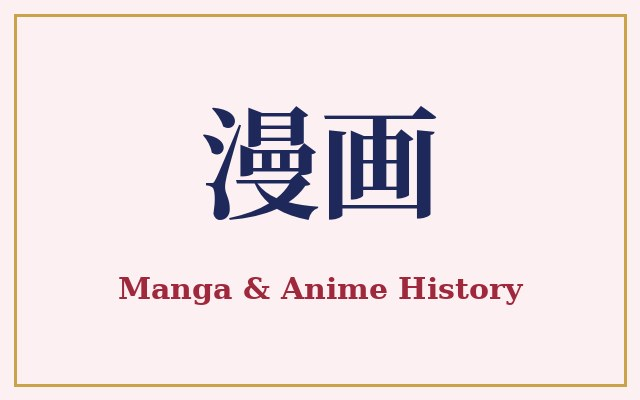
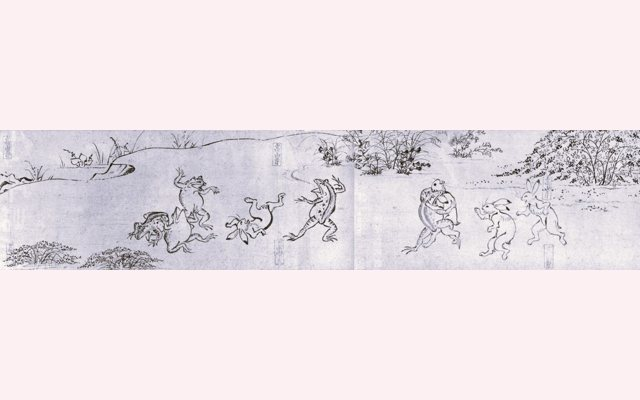
manga-anime-history: add 12 PD/CC photos with descriptions, new hub thumbnail
Claude-Session: https://claude.ai/code/session_01YLWmcJ4C49shEAFm3hzpVu

diff --git a/culture/manga-anime-history/index.html b/culture/manga-anime-history/index.html
@@ -1141,15 +1141,62 @@ article ul li, article ol li { font-size: 19px; }
 
     <section id="opening">
       <p class="opening">Some of the oldest comic art in Japan is kept in a mountain temple in Kyoto, and it stars a rabbit and a frog.</p>
-      <p>As a licensed guide, I like to start manga and anime history at a temple, because it shows how long the habit of telling stories in pictures has lasted here. This page follows that thread from medieval scrolls to Pokemon in a few steps. It uses text and links rather than pictures of modern characters, which are protected by copyright, and it points you to official sites and museums instead.</p>
+      <p>As a licensed guide, I like to start manga and anime history at a temple, because it shows how long the habit of telling stories in pictures has lasted here. This page follows that thread from medieval scrolls to Pokemon in a few steps. The pictures here are old scrolls and prints in the public domain and photos of places; modern characters are protected by copyright, so for them I point you to official sites and museums.</p>
     </section>
 
     <h2 id="scrolls">The Scrolls at Kozan-ji<span class="h2-jp">鳥獣戯画</span></h2>
     <p>The <em>Choju-jinbutsu-giga</em>, usually called Choju-giga, is a set of four ink scrolls in which rabbits, frogs, monkeys and other animals wrestle, swim, race and parody monks. <a href="https://en.wikipedia.org/wiki/Ch%C5%8Dj%C5%AB-jinbutsu-giga" target="_blank" rel="noopener" onclick="trackEvent('click','external','manga_src_wiki_choju')">Wikipedia (Choju-jinbutsu-giga)</a> dates the scrolls to the 12th and 13th centuries and notes that the usual attribution to the priest Toba Sojo is uncertain. They belong to Kozan-ji, a temple at Toganoo in the hills north-west of Kyoto (<a href="https://www.kosanji.com/" target="_blank" rel="noopener" onclick="trackEvent('click','external','manga_src_kozanji')">Kozan-ji</a>), and are designated National Treasures.</p>
+    <figure style="margin:36px auto;max-width:760px;">
+      <picture><source srcset="/culture/manga-anime-history/images/kozanji.webp" type="image/webp"><img src="/culture/manga-anime-history/images/kozanji.jpg" alt="The Kaizando hall at Kozan-ji with a gray roof among autumn maples" loading="lazy" style="width:100%;height:auto;border-radius:4px;display:block;"></picture>
+      <figcaption style="font-size:13px;color:var(--enshu);margin-top:10px;text-align:center;line-height:1.6;">The Kaizando at Kozan-ji, Kyoto<br>Photo: KimonBerlin, <a href="https://creativecommons.org/licenses/by-sa/2.0/" target="_blank" rel="noopener" style="color:var(--enshu);">CC BY-SA 2.0</a>, via Wikimedia Commons (resized)</figcaption>
+    </figure>
+    <p>This is a hall at Kozan-ji in autumn. The sign in front reads <em>Kaizando</em> and <em>Myoe Shonin</em> (as I read it), which points to the priest the temple regards as its founder. Notice how plain the building is: a low gray roof, white plaster, and maples behind it. The scrolls were not made for tourists; they have been kept in a quiet mountain temple like this one.</p>
+    <figure style="margin:36px auto;max-width:760px;">
+      <picture><source srcset="/culture/manga-anime-history/images/choju-sumo.webp" type="image/webp"><img src="/culture/manga-anime-history/images/choju-sumo.jpg" alt="Frogs and rabbits wrestling in a Choju-giga scroll" loading="lazy" style="width:100%;height:auto;border-radius:4px;display:block;"></picture>
+      <figcaption style="font-size:13px;color:var(--enshu);margin-top:10px;text-align:center;line-height:1.6;">A wrestling scene from the Choju-giga scrolls<br>Public domain (old work), via Wikimedia Commons (resized)</figcaption>
+    </figure>
+    <p>This is the scene most people picture first: frogs and rabbits in a wrestling match. On the left a frog has thrown a rabbit onto its back, and on the right two rabbits seem to cheer or flinch while another is held in a frog's embrace. The vertical red-and-black stamps on the paper are marks of Kozan-ji. This image is a scan from a printed reproduction, so it is gray-toned and not a photo of the original ink.</p>
+    <figure style="margin:36px auto;max-width:563px;">
+      <picture><source srcset="/culture/manga-anime-history/images/choju-sumo-close.webp" type="image/webp"><img src="/culture/manga-anime-history/images/choju-sumo-close.jpg" alt="Close view of a frog throwing a rabbit in Choju-giga" loading="lazy" style="width:100%;height:auto;border-radius:4px;display:block;"></picture>
+      <figcaption style="font-size:13px;color:var(--enshu);margin-top:10px;text-align:center;line-height:1.6;">Close-up of the same wrestling scene<br>Public domain (old work), via Wikimedia Commons (resized)</figcaption>
+    </figure>
+    <p>A closer view of the left half. The frog on the right raises a hand with a look of triumph, while the rabbit is flipped over with its legs in the air. The fun is in the expressions and the movement: animals behaving like people, drawn with a few quick brush lines.</p>
     <p>Dates for the designation differ between sources (1905 in one, 1952 in another), so I will leave the year out. What matters for this story is the style: lively lines, humor, and a sequence that you read as you unroll it. Many people call it the ancestor of manga, which is a fair way to see it, though it is a claim of influence and not a family tree.</p>
+
+    <figure style="margin:36px auto;max-width:760px;">
+      <picture><source srcset="/culture/manga-anime-history/images/choju-archery.webp" type="image/webp"><img src="/culture/manga-anime-history/images/choju-archery.jpg" alt="Rabbits and frogs with bows and a fox holding a torch in a Choju-giga scroll" loading="lazy" style="width:100%;height:auto;border-radius:4px;display:block;"></picture>
+      <figcaption style="font-size:13px;color:var(--enshu);margin-top:10px;text-align:center;line-height:1.6;">Archery and a torch-bearing fox in a Choju-giga scroll<br>Public domain (old work), via Wikimedia Commons (resized)</figcaption>
+    </figure>
+    <p>In this long strip, rabbits and frogs hold bows and a round leaf stands as a target on a stick. At right, a fox carries what looks like a blazing torch next to a rabbit. I read it as a game or contest, but I cannot name the exact episode, so I only describe what the drawing shows.</p>
+    <figure style="margin:36px auto;max-width:760px;">
+      <picture><source srcset="/culture/manga-anime-history/images/choju-water.webp" type="image/webp"><img src="/culture/manga-anime-history/images/choju-water.jpg" alt="Rabbits and monkeys playing in a stream in a Choju-giga scroll" loading="lazy" style="width:100%;height:auto;border-radius:4px;display:block;"></picture>
+      <figcaption style="font-size:13px;color:var(--enshu);margin-top:10px;text-align:center;line-height:1.6;">Rabbits and monkeys by a stream in a Choju-giga scroll<br>Public domain (old work), via Wikimedia Commons (resized)</figcaption>
+    </figure>
+    <p>Here the animals are in and around a stream drawn with fine wavy lines. Rabbits and monkeys swim, sit on rocks and seem to play, and the landscape of bare trees and rocks fills the left side. It shows that the artist could handle water and scenery as well as comic action.</p>
+    <figure style="margin:36px auto;max-width:760px;">
+      <picture><source srcset="/culture/manga-anime-history/images/choju-procession.webp" type="image/webp"><img src="/culture/manga-anime-history/images/choju-procession.jpg" alt="Rabbits and frogs carrying boxes and a litter in a Choju-giga scroll" loading="lazy" style="width:100%;height:auto;border-radius:4px;display:block;"></picture>
+      <figcaption style="font-size:13px;color:var(--enshu);margin-top:10px;text-align:center;line-height:1.6;">A procession of rabbits and frogs in a Choju-giga scroll<br>Public domain (old work), via Wikimedia Commons (resized)</figcaption>
+    </figure>
+    <p>A parade of rabbits and frogs carries a box on a head, a covered chest and a flat litter, while a rabbit at the far end waves a fan. The thin seams in the image are joins between sheets of the scroll or the scan. I describe it as a procession, but the scene's meaning is not something I can confirm from the picture.</p>
 
     <h2 id="edo">Hokusai and the Word Manga<span class="h2-jp">北斎漫画</span></h2>
     <p>Picture scrolls (<em>emaki</em>) became woodblock-printed books in the Edo period. Katsushika Hokusai's sketchbooks, called <em>Hokusai Manga</em>, began appearing in 1814 and filled many volumes with people, animals, spirits and everyday scenes (<a href="https://en.wikipedia.org/wiki/Hokusai_Manga" target="_blank" rel="noopener" onclick="trackEvent('click','external','manga_src_wiki_hokusai')">Wikipedia (Hokusai Manga)</a>). They were drawing manuals, not comics in the modern sense, but they helped make the word <span class="jp">漫画</span> familiar. For more on the prints of this era, see the <a class="inline-link" href="/culture/ukiyo-e/">ukiyo-e guide</a>.</p>
+
+    <figure style="margin:36px auto;max-width:620px;">
+      <picture><source srcset="/culture/manga-anime-history/images/hokusai-v8.webp" type="image/webp"><img src="/culture/manga-anime-history/images/hokusai-v8.jpg" alt="Cover and a page of Hokusai Manga volume 8 with butterflies and small figure scenes" loading="lazy" style="width:100%;height:auto;border-radius:4px;display:block;"></picture>
+      <figcaption style="font-size:13px;color:var(--enshu);margin-top:10px;text-align:center;line-height:1.6;">Hokusai Manga, volume 8: the cover and a page of small scenes<br>Public domain (old work), via Wikimedia Commons (resized)</figcaption>
+    </figure>
+    <p>On the right is the cover of a volume of <em>Hokusai Manga</em>, with the title in large characters over diagonal stripes and a few leaves and butterflies. On the left, a page is divided into small boxes, each with a figure or a pair of figures. This is the sketchbook format: one subject after another, to be copied or enjoyed.</p>
+    <figure style="margin:36px auto;max-width:760px;">
+      <picture><source srcset="/culture/manga-anime-history/images/hokusai-faces.webp" type="image/webp"><img src="/culture/manga-anime-history/images/hokusai-faces.jpg" alt="Two pages of Hokusai Manga with rows of faces in a grid" loading="lazy" style="width:100%;height:auto;border-radius:4px;display:block;"></picture>
+      <figcaption style="font-size:13px;color:var(--enshu);margin-top:10px;text-align:center;line-height:1.6;">Two pages of faces from Hokusai Manga<br>Public domain (old work), via Wikimedia Commons (resized)</figcaption>
+    </figure>
+    <p>Two pages made of faces in a grid. Each box shows a different person, young, old, smiling, frowning, with different hair and clothes. The page is a scan from a printed edition, and a printed page label can be seen at the bottom edge. For me it is the clearest sign that these books were about observing expression, which later manga artists made central.</p>
+    <figure style="margin:36px auto;max-width:700px;">
+      <picture><source srcset="/culture/manga-anime-history/images/hokusai-swim.webp" type="image/webp"><img src="/culture/manga-anime-history/images/hokusai-swim.jpg" alt="Two pages of Hokusai Manga with people swimming underwater and a horse" loading="lazy" style="width:100%;height:auto;border-radius:4px;display:block;"></picture>
+      <figcaption style="font-size:13px;color:var(--enshu);margin-top:10px;text-align:center;line-height:1.6;">Swimmers and a horse in Hokusai Manga<br>Public domain (old work), via Wikimedia Commons (resized)</figcaption>
+    </figure>
+    <p>People swim under a pattern of waves, some with floats, with fish and a horse among them. A title on the right page appears to read <em>Ukihara</em> (as I read it), but I will not claim more. What stands out is the range of poses: bodies seen from above, upside down and twisting, which shows why artists still study these pages.</p>
 
     <h2 id="meiji">Satire, Magazines and Paper Theater<span class="h2-jp">風刺漫画と紙芝居</span></h2>
     <p>After 1868, Western-style newspapers and humor magazines arrived. Kitazawa Rakuten drew satirical cartoons and is linked with the magazine <em>Tokyo Puck</em>, launched in 1905 (<a href="https://en.wikipedia.org/wiki/Kitazawa_Rakuten" target="_blank" rel="noopener" onclick="trackEvent('click','external','manga_src_wiki_rakuten')">Wikipedia (Kitazawa Rakuten)</a>). In the 1930s, street storytellers used <em>kamishibai</em>, picture cards slid in a small wooden stage, to sell sweets and tell serial stories to children (<a href="https://en.wikipedia.org/wiki/Kamishibai" target="_blank" rel="noopener" onclick="trackEvent('click','external','manga_src_wiki_kamishibai')">Wikipedia (Kamishibai)</a>). After the war, cheap rental comics (<em>kashihon</em>) carried on the habit of reading serial stories on paper.</p>
@@ -1173,6 +1220,21 @@ article ul li, article ol li { font-size: 19px; }
       <li><strong>Mizuki Shigeru Road, Sakaiminato, Tottori.</strong> A street of about 800 meters lined with bronze yokai statues from GeGeGe no Kitaro; the count varies from about 150 to 178 by source (<a href="https://www.gltjp.com/en/directory/item/12141/" target="_blank" rel="noopener" onclick="trackEvent('click','external','manga_src_gltjp_mizuki')">GLTJP</a>, <a href="https://www.mlit.go.jp/tagengo-db/en/R2-01660.html" target="_blank" rel="noopener" onclick="trackEvent('click','external','manga_src_mlit_mizuki')">the MLIT multilingual database</a>).</li>
     </ul>
     <p>For a guided option in Kyoto, you can browse <a class="inline-link" href="https://www.viator.com/search/Kyoto+manga+anime+tour?pid=P00298374&amp;mcid=42383&amp;medium=link&amp;campaign=sacred-japan" target="_blank" rel="noopener sponsored">manga and anime tours on Viator</a>. I have not tried them, so check each page.</p>
+    <figure style="margin:36px auto;max-width:760px;">
+      <picture><source srcset="/culture/manga-anime-history/images/museum-building.webp" type="image/webp"><img src="/culture/manga-anime-history/images/museum-building.jpg" alt="The Kyoto International Manga Museum seen across a lawn" loading="lazy" style="width:100%;height:auto;border-radius:4px;display:block;"></picture>
+      <figcaption style="font-size:13px;color:var(--enshu);margin-top:10px;text-align:center;line-height:1.6;">The Kyoto International Manga Museum from the lawn<br>Photo: 珈琲ルンバ, <a href="https://creativecommons.org/licenses/by-sa/3.0/" target="_blank" rel="noopener" style="color:var(--enshu);">CC BY-SA 3.0</a>, via Wikimedia Commons (resized)</figcaption>
+    </figure>
+    <p>The museum occupies a former elementary school in central Kyoto. A banner on the right says it is open, so the picture was probably taken around its opening period, and the building or grounds may look different now. The wide lawn is a good place to sit and read, which is part of the idea.</p>
+    <figure style="margin:36px auto;max-width:760px;">
+      <picture><source srcset="/culture/manga-anime-history/images/museum-shelf.webp" type="image/webp"><img src="/culture/manga-anime-history/images/museum-shelf.jpg" alt="Visitors reading manga in front of a wall of shelves at the Kyoto International Manga Museum" loading="lazy" style="width:100%;height:auto;border-radius:4px;display:block;"></picture>
+      <figcaption style="font-size:13px;color:var(--enshu);margin-top:10px;text-align:center;line-height:1.6;">Visitors at the manga wall of the Kyoto International Manga Museum<br>Photo: Peat Bakke, <a href="https://creativecommons.org/licenses/by/2.0/" target="_blank" rel="noopener" style="color:var(--enshu);">CC BY 2.0</a>, via Wikimedia Commons (resized)</figcaption>
+    </figure>
+    <p>A long wall of shelves with the museum's name above it, and visitors standing and reading. This photo is from 2007, so I would not use it to describe the current layout, but it shows what makes the place different from a normal gallery: you are allowed to pick up manga and read.</p>
+    <figure style="margin:36px auto;max-width:760px;">
+      <picture><source srcset="/culture/manga-anime-history/images/yokai-space.webp" type="image/webp"><img src="/culture/manga-anime-history/images/yokai-space.jpg" alt="Yokai Square in Sakaiminato with eyeball lamp posts and a thatched umbrella-shaped roof" loading="lazy" style="width:100%;height:auto;border-radius:4px;display:block;"></picture>
+      <figcaption style="font-size:13px;color:var(--enshu);margin-top:10px;text-align:center;line-height:1.6;">Yokai Square on Mizuki Shigeru Road, Sakaiminato<br>Photo: Motokoka, <a href="https://creativecommons.org/licenses/by-sa/4.0/" target="_blank" rel="noopener" style="color:var(--enshu);">CC BY-SA 4.0</a>, via Wikimedia Commons (resized)</figcaption>
+    </figure>
+    <p>A small plaza with lamp posts topped by round white globes, one of them with an orange eye, and a green thatched roof shaped like a giant umbrella. The signboard to the right is not readable here, and I cannot say which yokai the roof refers to, but the whole street is built around this kind of playful folklore imagery.</p>
 
     <h2 id="faq">Frequently Asked Questions<span class="h2-jp">よくある質問</span></h2>
     <div class="faq-stack">      <details class="faq-item">

diff --git a/_tools/culture/manga_anime.py b/_tools/culture/manga_anime.py
@@ -41,6 +41,24 @@ faqs = [
 ]
 faq_html, faq_ld = faq_blocks(faqs)
 
+fig = make_fig(S)
+PD = 'Public domain (old work), via Wikimedia Commons (resized)'
+_PH = {
+    'kozanji': '/mnt/user-data/uploads/a4f6fec4-image.jpg',
+    'choju-sumo': '/mnt/user-data/uploads/a7255900-image.jpg',
+    'choju-sumo-close': '/mnt/user-data/uploads/384823c4-image.jpg',
+    'choju-archery': '/mnt/user-data/uploads/85503c37-image.jpg',
+    'choju-water': '/mnt/user-data/uploads/25b63b94-image.jpg',
+    'choju-procession': '/mnt/user-data/uploads/f606d248-image.jpg',
+    'hokusai-v8': '/mnt/user-data/uploads/dfd70b27-image.jpg',
+    'hokusai-faces': '/mnt/user-data/uploads/81558a6d-image.jpg',
+    'hokusai-swim': '/mnt/user-data/uploads/1f749ce3-image.jpg',
+    'museum-building': '/mnt/user-data/uploads/5f5bd7eb-image.jpg',
+    'museum-shelf': '/mnt/user-data/uploads/bde0bdcb-image.jpg',
+    'yokai-space': '/mnt/user-data/uploads/08903e41-image.jpg',
+}
+copy_photos(S, {k: v for k, v in _PH.items() if os.path.exists(v) and not os.path.exists(f'{R}/culture/{S}/images/{k}.jpg')})
+
 main = f'''<main>
 
   <aside class="toc" aria-label="Table of contents">
@@ -64,15 +82,35 @@ main = f'''<main>
 
     <section id="opening">
       <p class="opening">Some of the oldest comic art in Japan is kept in a mountain temple in Kyoto, and it stars a rabbit and a frog.</p>
-      <p>As a licensed guide, I like to start manga and anime history at a temple, because it shows how long the habit of telling stories in pictures has lasted here. This page follows that thread from medieval scrolls to Pokemon in a few steps. It uses text and links rather than pictures of modern characters, which are protected by copyright, and it points you to official sites and museums instead.</p>
+      <p>As a licensed guide, I like to start manga and anime history at a temple, because it shows how long the habit of telling stories in pictures has lasted here. This page follows that thread from medieval scrolls to Pokemon in a few steps. The pictures here are old scrolls and prints in the public domain and photos of places; modern characters are protected by copyright, so for them I point you to official sites and museums.</p>
     </section>
 
     <h2 id="scrolls">The Scrolls at Kozan-ji<span class="h2-jp">鳥獣戯画</span></h2>
     <p>The <em>Choju-jinbutsu-giga</em>, usually called Choju-giga, is a set of four ink scrolls in which rabbits, frogs, monkeys and other animals wrestle, swim, race and parody monks. {W_CJ} dates the scrolls to the 12th and 13th centuries and notes that the usual attribution to the priest Toba Sojo is uncertain. They belong to Kozan-ji, a temple at Toganoo in the hills north-west of Kyoto ({KOZ}), and are designated National Treasures.</p>
+    {fig('kozanji', 'The Kaizando hall at Kozan-ji with a gray roof among autumn maples', 'The Kaizando at Kozan-ji, Kyoto', f'Photo: KimonBerlin, {BYSA2}, {VIA}', maxw=760)}
+    <p>This is a hall at Kozan-ji in autumn. The sign in front reads <em>Kaizando</em> and <em>Myoe Shonin</em> (as I read it), which points to the priest the temple regards as its founder. Notice how plain the building is: a low gray roof, white plaster, and maples behind it. The scrolls were not made for tourists; they have been kept in a quiet mountain temple like this one.</p>
+    {fig('choju-sumo', 'Frogs and rabbits wrestling in a Choju-giga scroll', 'A wrestling scene from the Choju-giga scrolls', PD, maxw=760)}
+    <p>This is the scene most people picture first: frogs and rabbits in a wrestling match. On the left a frog has thrown a rabbit onto its back, and on the right two rabbits seem to cheer or flinch while another is held in a frog's embrace. The vertical red-and-black stamps on the paper are marks of Kozan-ji. This image is a scan from a printed reproduction, so it is gray-toned and not a photo of the original ink.</p>
+    {fig('choju-sumo-close', 'Close view of a frog throwing a rabbit in Choju-giga', 'Close-up of the same wrestling scene', PD, maxw=563)}
+    <p>A closer view of the left half. The frog on the right raises a hand with a look of triumph, while the rabbit is flipped over with its legs in the air. The fun is in the expressions and the movement: animals behaving like people, drawn with a few quick brush lines.</p>
     <p>Dates for the designation differ between sources (1905 in one, 1952 in another), so I will leave the year out. What matters for this story is the style: lively lines, humor, and a sequence that you read as you unroll it. Many people call it the ancestor of manga, which is a fair way to see it, though it is a claim of influence and not a family tree.</p>
+
+    {fig('choju-archery', 'Rabbits and frogs with bows and a fox holding a torch in a Choju-giga scroll', 'Archery and a torch-bearing fox in a Choju-giga scroll', PD, maxw=760)}
+    <p>In this long strip, rabbits and frogs hold bows and a round leaf stands as a target on a stick. At right, a fox carries what looks like a blazing torch next to a rabbit. I read it as a game or contest, but I cannot name the exact episode, so I only describe what the drawing shows.</p>
+    {fig('choju-water', 'Rabbits and monkeys playing in a stream in a Choju-giga scroll', 'Rabbits and monkeys by a stream in a Choju-giga scroll', PD, maxw=760)}
+    <p>Here the animals are in and around a stream drawn with fine wavy lines. Rabbits and monkeys swim, sit on rocks and seem to play, and the landscape of bare trees and rocks fills the left side. It shows that the artist could handle water and scenery as well as comic action.</p>
+    {fig('choju-procession', 'Rabbits and frogs carrying boxes and a litter in a Choju-giga scroll', 'A procession of rabbits and frogs in a Choju-giga scroll', PD, maxw=760)}
+    <p>A parade of rabbits and frogs carries a box on a head, a covered chest and a flat litter, while a rabbit at the far end waves a fan. The thin seams in the image are joins between sheets of the scroll or the scan. I describe it as a procession, but the scene's meaning is not something I can confirm from the picture.</p>
 
     <h2 id="edo">Hokusai and the Word Manga<span class="h2-jp">北斎漫画</span></h2>
     <p>Picture scrolls (<em>emaki</em>) became woodblock-printed books in the Edo period. Katsushika Hokusai's sketchbooks, called <em>Hokusai Manga</em>, began appearing in 1814 and filled many volumes with people, animals, spirits and everyday scenes ({W_HM}). They were drawing manuals, not comics in the modern sense, but they helped make the word <span class="jp">漫画</span> familiar. For more on the prints of this era, see the <a class="inline-link" href="/culture/ukiyo-e/">ukiyo-e guide</a>.</p>
+
+    {fig('hokusai-v8', 'Cover and a page of Hokusai Manga volume 8 with butterflies and small figure scenes', 'Hokusai Manga, volume 8: the cover and a page of small scenes', PD, maxw=620)}
+    <p>On the right is the cover of a volume of <em>Hokusai Manga</em>, with the title in large characters over diagonal stripes and a few leaves and butterflies. On the left, a page is divided into small boxes, each with a figure or a pair of figures. This is the sketchbook format: one subject after another, to be copied or enjoyed.</p>
+    {fig('hokusai-faces', 'Two pages of Hokusai Manga with rows of faces in a grid', 'Two pages of faces from Hokusai Manga', PD, maxw=760)}
+    <p>Two pages made of faces in a grid. Each box shows a different person, young, old, smiling, frowning, with different hair and clothes. The page is a scan from a printed edition, and a printed page label can be seen at the bottom edge. For me it is the clearest sign that these books were about observing expression, which later manga artists made central.</p>
+    {fig('hokusai-swim', 'Two pages of Hokusai Manga with people swimming underwater and a horse', 'Swimmers and a horse in Hokusai Manga', PD, maxw=700)}
+    <p>People swim under a pattern of waves, some with floats, with fish and a horse among them. A title on the right page appears to read <em>Ukihara</em> (as I read it), but I will not claim more. What stands out is the range of poses: bodies seen from above, upside down and twisting, which shows why artists still study these pages.</p>
 
     <h2 id="meiji">Satire, Magazines and Paper Theater<span class="h2-jp">風刺漫画と紙芝居</span></h2>
     <p>After 1868, Western-style newspapers and humor magazines arrived. Kitazawa Rakuten drew satirical cartoons and is linked with the magazine <em>Tokyo Puck</em>, launched in 1905 ({W_KR}). In the 1930s, street storytellers used <em>kamishibai</em>, picture cards slid in a small wooden stage, to sell sweets and tell serial stories to children ({W_KS}). After the war, cheap rental comics (<em>kashihon</em>) carried on the habit of reading serial stories on paper.</p>
@@ -96,6 +134,12 @@ main = f'''<main>
       <li><strong>Mizuki Shigeru Road, Sakaiminato, Tottori.</strong> A street of about 800 meters lined with bronze yokai statues from GeGeGe no Kitaro; the count varies from about 150 to 178 by source ({MZK}, {MZ2}).</li>
     </ul>
     <p>For a guided option in Kyoto, you can browse <a class="inline-link" href="{VI}" target="_blank" rel="noopener sponsored">manga and anime tours on Viator</a>. I have not tried them, so check each page.</p>
+    {fig('museum-building', 'The Kyoto International Manga Museum seen across a lawn', 'The Kyoto International Manga Museum from the lawn', f'Photo: 珈琲ルンバ, {BYSA3}, {VIA}', maxw=760)}
+    <p>The museum occupies a former elementary school in central Kyoto. A banner on the right says it is open, so the picture was probably taken around its opening period, and the building or grounds may look different now. The wide lawn is a good place to sit and read, which is part of the idea.</p>
+    {fig('museum-shelf', 'Visitors reading manga in front of a wall of shelves at the Kyoto International Manga Museum', 'Visitors at the manga wall of the Kyoto International Manga Museum', f'Photo: Peat Bakke, {BY2}, {VIA}', maxw=760)}
+    <p>A long wall of shelves with the museum's name above it, and visitors standing and reading. This photo is from 2007, so I would not use it to describe the current layout, but it shows what makes the place different from a normal gallery: you are allowed to pick up manga and read.</p>
+    {fig('yokai-space', 'Yokai Square in Sakaiminato with eyeball lamp posts and a thatched umbrella-shaped roof', 'Yokai Square on Mizuki Shigeru Road, Sakaiminato', f'Photo: Motokoka, {BYSA4}, {VIA}', maxw=760)}
+    <p>A small plaza with lamp posts topped by round white globes, one of them with an orange eye, and a green thatched roof shaped like a giant umbrella. The signboard to the right is not readable here, and I cannot say which yokai the roof refers to, but the whole street is built around this kind of playful folklore imagery.</p>
 
     <h2 id="faq">Frequently Asked Questions<span class="h2-jp">よくある質問</span></h2>
     <div class="faq-stack">{faq_html}</div>

diff --git a/CLAUDE.md b/CLAUDE.md
@@ -552,3 +552,5 @@
 - 2026-11-28 guides/namba-yasaka-shrine：正面から見た獅子殿の写真1枚＋解説を追加（サトミー／写真AC、1920×1536。写真ACの規約で使用、クレジットは作者名＋photo AC表記。【要確認】写真ACの規約（サイト掲載・商用・クレジット要否）は未確認。日付は不明のため記載せず。口の中の藁縄は用途不明と明記、1月の綱引神事の縄とは断定せず）。shrine_common.py に 'photoac' ライセンスキーを追加（キャプション／PHOTO-CREDITS.csv対応）。ビルダー _tools/shrine/namba_yasaka.py。計8枚
 - 2026-11-28 guides/namba-yasaka-shrine：絵馬の壁の写真1枚＋解説を追加（Ethan Doyle White CC BY-SA 4.0・2019-11-16、Commons説明『Ema at the Namba Yasaka Shrine in Osaka』）。絵馬の節の末尾。願い事の文字は読まない旨を記載。計9枚。保留ゼロ
 - 2026-11-28 新規：culture/manga-anime-history/（漫画とアニメの歴史。タイトル「Manga & Anime History: From Choju-giga at Kozan-ji to Pokemon」。ビルダー _tools/culture/manga_anime.py）。方針：著作権のため現代作品の画像は使わず、文章＋公式リンクのみ。写真なし（必要：鳥獣戯画・高山寺・北斎漫画・京都国際マンガミュージアム。パブリックドメインの古典と建物のみ）。出典：Wikipedia各項目／高山寺／京都国際マンガミュージアム／手塚治虫記念館／ジブリ美術館公式／水木しげるロード（GLTJP・MLIT）。国宝指定年（1905/1952）・少年ジャンプ創刊日・水木ロードの像の数（150〜178）は資料差のため年・数は断定せず。文化ハブ GUIDE 30・ガイドハブ GUIDE 134（position 134）・モバイルナビ・フッター・sitemap・OGP・ハブ画像（文字タイル）反映済み。【未対応】写真追加、インデックス登録（culture/manga-anime-history/ ほか）、Cloudflareパージ
+
+- 2026-11-28 culture/manga-anime-history：写真12枚＋解説を追加（鳥獣戯画5＋相撲クローズアップ1（PD）／高山寺 開山堂 KimonBerlin CC BY-SA 2.0／北斎漫画3（PD）／京都国際マンガミュージアム 外観 珈琲ルンバ CC BY-SA 3.0・書棚 Peat Bakke CC BY 2.0（いずれも2007年・現状と異なる可能性を明記）／水木しげるロード 妖怪広場 Motokoka CC BY-SA 4.0）。【不使用】ワンピースのラッピング列車2枚（CC0だがキャラクター著作物）、鬼太郎ラーメン・水木ロードの骸骨像（キャラクターの肖像が写る）。Commons URLは検索リンクで代用。ハブサムネイルは鳥獣戯画に差し替え。ビルダー _tools/culture/manga_anime.py。【未対応】インデックス登録（culture/manga-anime-history/ ほか）
